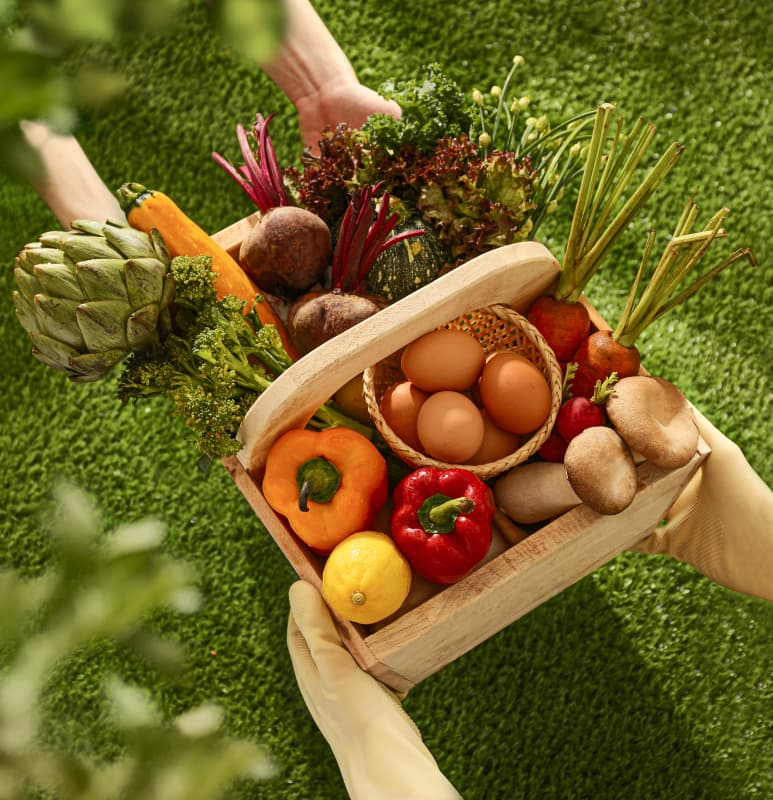
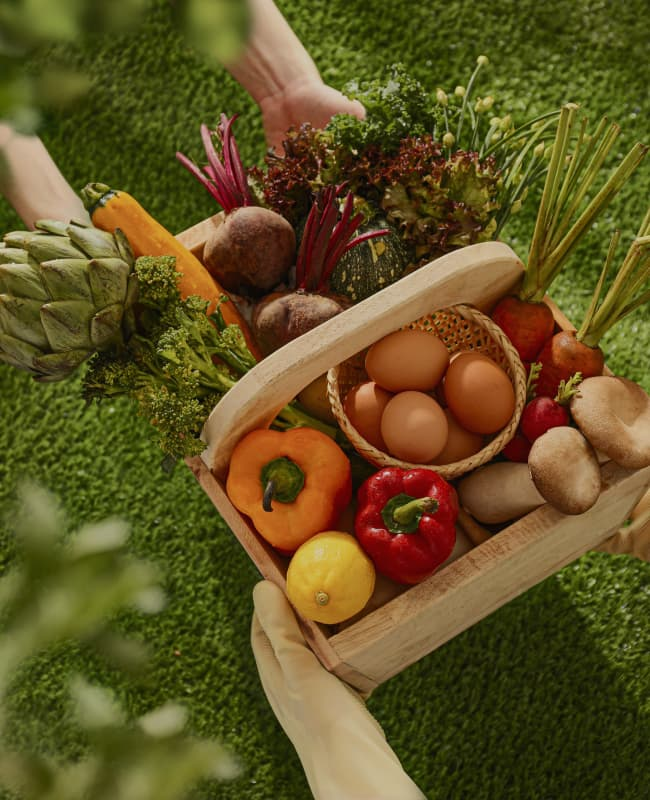
done html

diff --git a/src/partials/hero_partials.html b/src/partials/hero_partials.html
@@ -9,11 +9,23 @@
       delivered to you.
     </p>
   </div>
-
-  <img
-    class="hero-images"
-    srcset="./images/vegetables.jpg 1x, ./images/vegetables_2х.jpg 2x"
-    src="./images/vegetables.jpg"
-    alt="vegetables"
-  />
+  <picture class="hero-images">
+    <source
+      media="(min-width: 1280px)"
+      srcset="./images/vegetables.jpg 1x, ./images/vegetables2х.jpg 2x"
+    />
+    <source
+      media="(min-width: 768px)"
+      srcset="./images/vegetables-tab 1x.jpg 1x, ./images/vegetables-tab2х.jpg 2x"
+    />
+    <source
+      media="(max-width: 767px)"
+      srcset="./images/vegetables-mob 1x.jpg 1x, ./images/vegetables-mob2х.jpg 2x"
+    />
+    <img
+      srcset="./images/vegetables.jpg 1x, ./images/vegetables_2х.jpg 2x"
+      src="./images/vegetables.jpg"
+      alt="vegetables"
+    />
+  </picture>
 </section>
